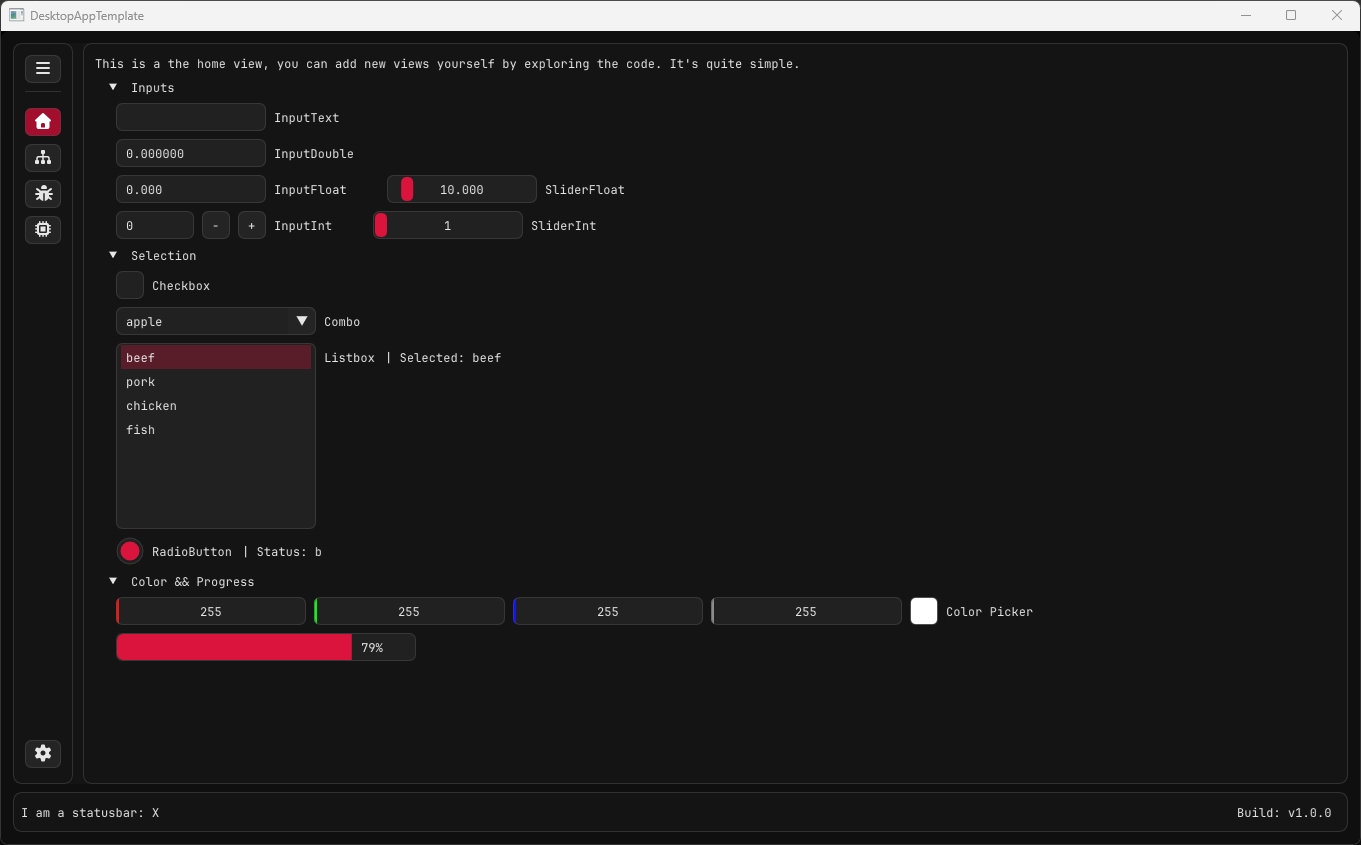
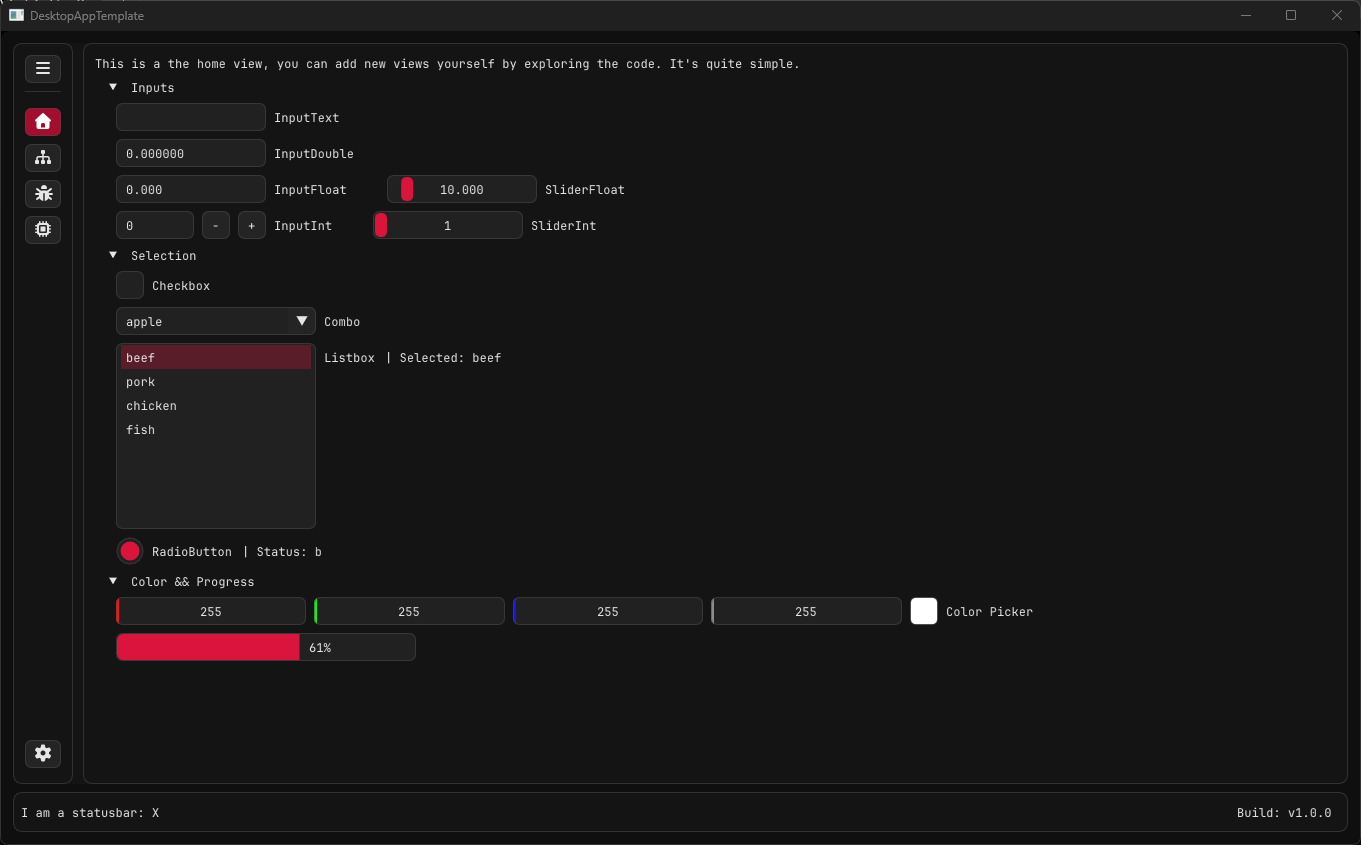
feat: use dark titlebar on Windows using DWM Api
and update the asset

Changed region(s): [[0.0, 0.0, 1.0, 0.0615], [0.216, 0.7385, 0.2777, 0.8]]

diff --git a/gui/backend/window_manager/window_manager.cpp b/gui/backend/window_manager/window_manager.cpp
@@ -6,6 +6,16 @@
 
 #include <logger.hpp>
 
+#if defined( _WIN32 )
+    #define GLFW_EXPOSE_NATIVE_WIN32
+    #include <GLFW/glfw3native.h>
+    #include <dwmapi.h>
+
+    #ifndef DWMWA_USE_IMMERSIVE_DARK_MODE
+        #define DWMWA_USE_IMMERSIVE_DARK_MODE 20
+    #endif
+#endif
+
 namespace {
     constexpr int kMinWindowW = 640;
     constexpr int kMinWindowH = 480;
@@ -88,6 +98,12 @@ void CWindowManager::setup_opengl( ) {
     if ( m_window == nullptr ) {
         glfwTerminate( );
     }
+
+    #if defined( _WIN32 )
+    BOOL dark_mode = m_config.settings.dark_mode;
+    DwmSetWindowAttribute(
+        glfwGetWin32Window( m_window ), DWMWA_USE_IMMERSIVE_DARK_MODE, &dark_mode, sizeof( dark_mode ) );
+    #endif
 
     glfwSetWindowSizeLimits( m_window, kMinWindowW, kMinWindowH, GLFW_DONT_CARE, GLFW_DONT_CARE );
     glfwMakeContextCurrent( m_window );
